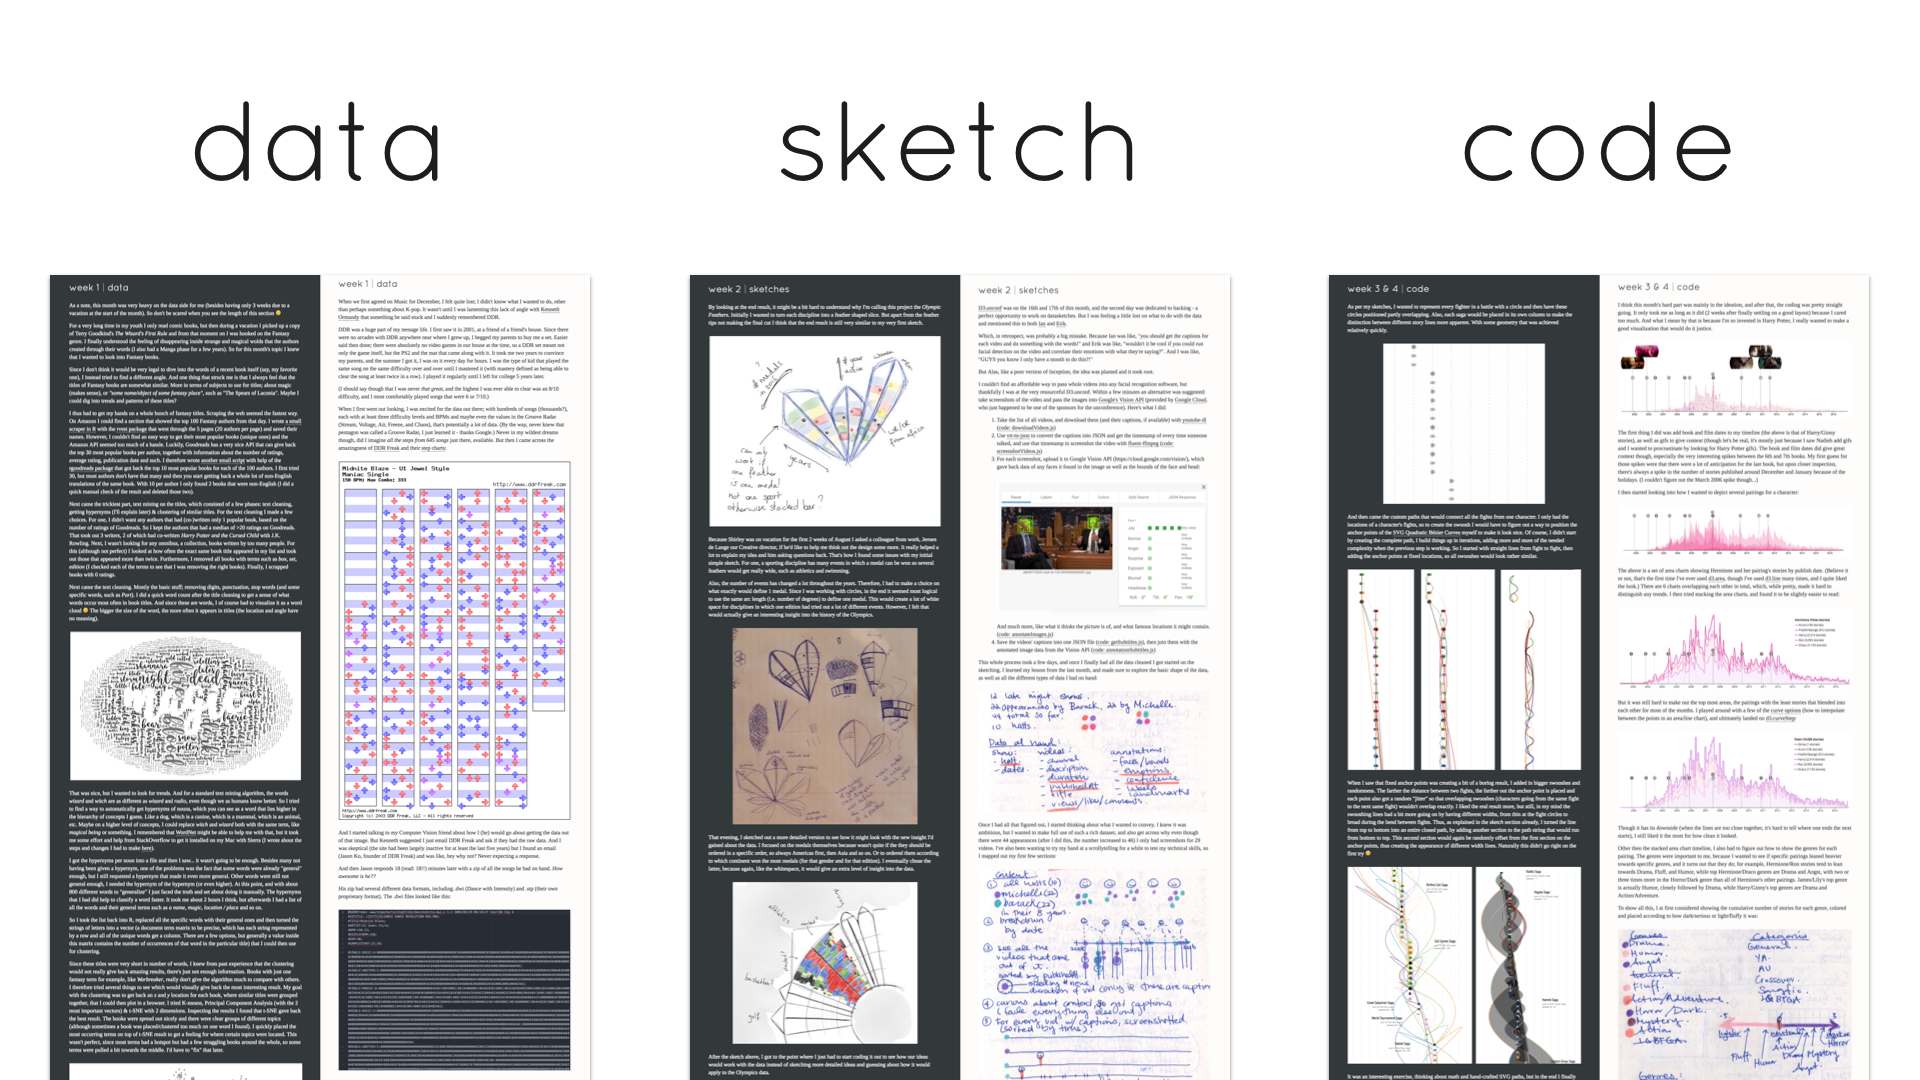
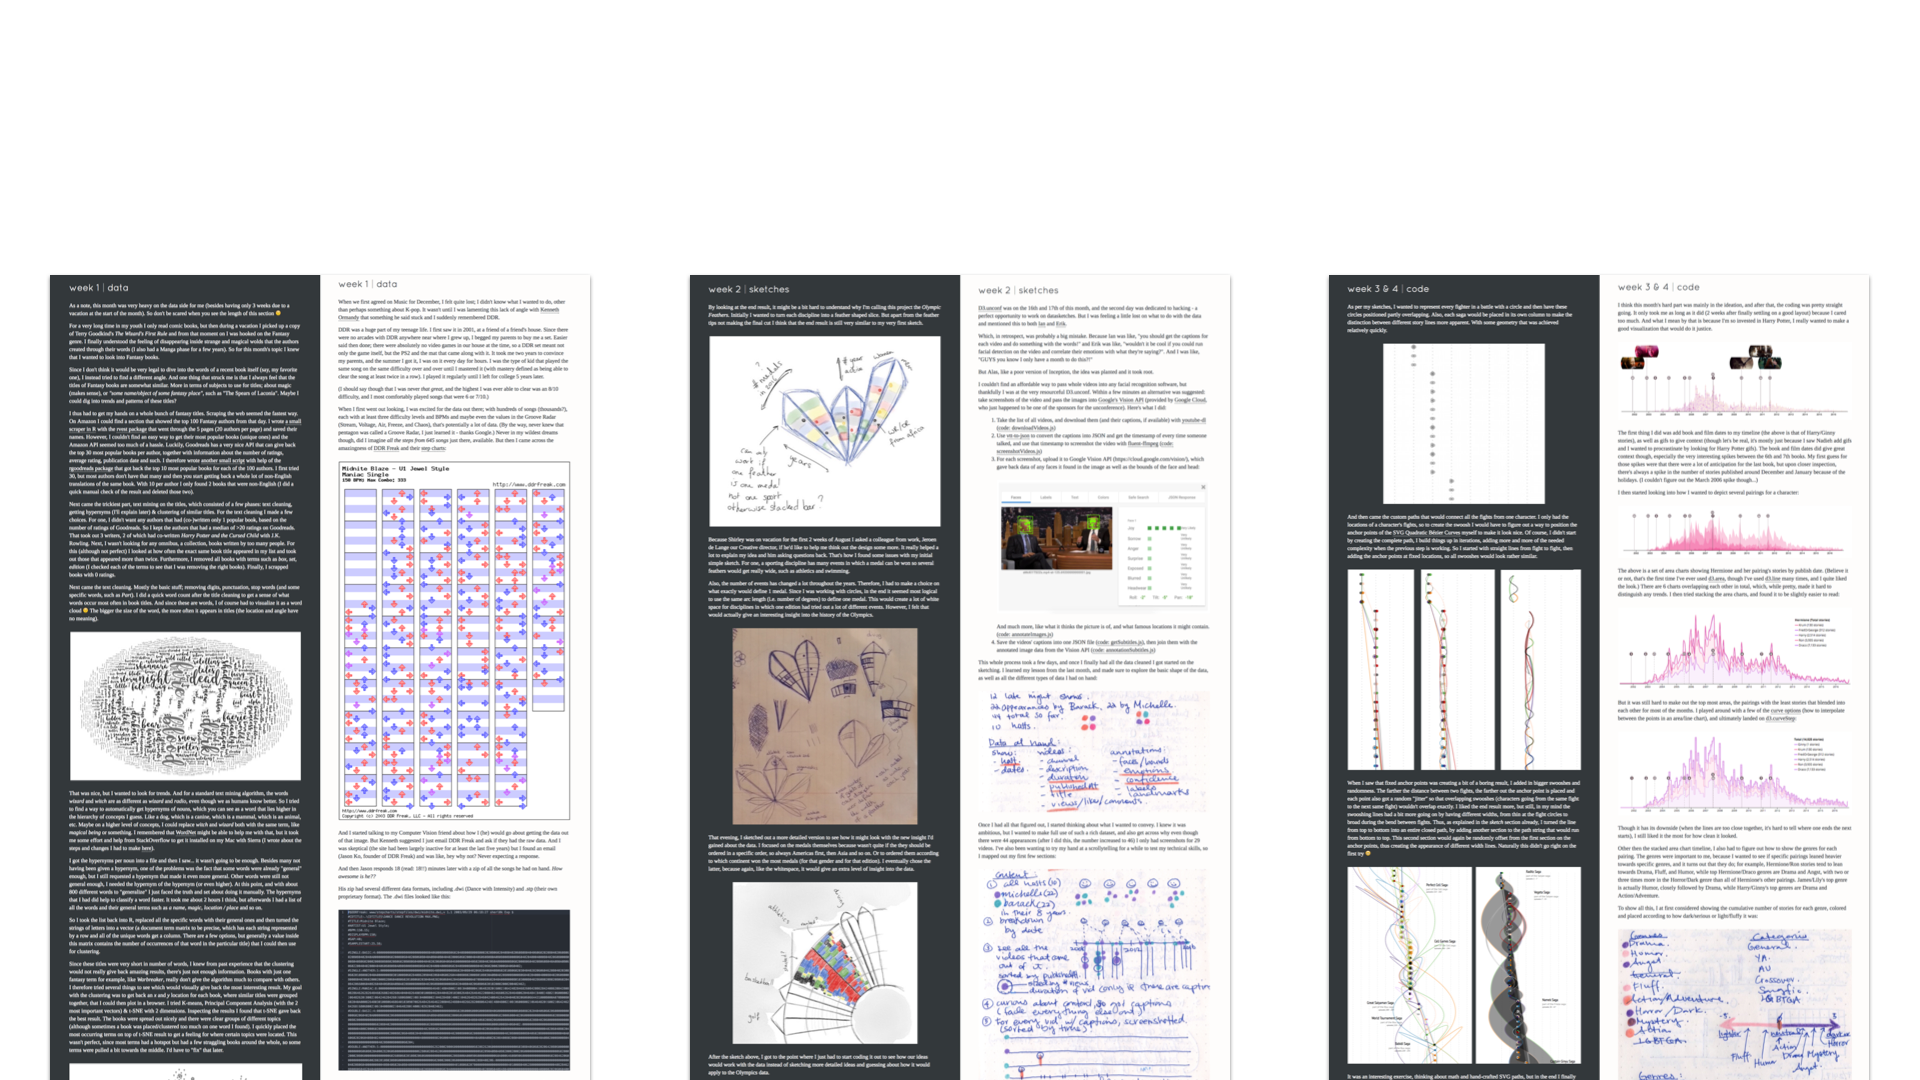
Turned some "image" words into actual HTML words

diff --git a/slides/slide_N_49/lessonsLearned.html b/slides/slide_N_49/lessonsLearned.html
@@ -2,17 +2,48 @@
 	#lessons-learned {
 		padding-top: 0px;
 	}
-	#lessons-learned .slide-images {
-		height: 1080px;
-		position: relative; 
-		margin: 0 auto;
+
+	#lessons-learned .slide-words {
+		width: 100%;
 	}
+
+	#lessons-learned .words-left {
+		float: left;
+		width: calc(50% - 20px);
+		padding-right: 20px;
+		text-align: right;
+		color: #282828;
+	}
+	
+	#lessons-learned .words-right {
+		float: left;
+		width: calc(50% - 20px);
+		padding-left: 20px;
+		text-align: left;
+		color: white;
+	}
+
+	#lessons-learned .title {
+		font-size: 115px;
+		font-weight: 400;
+		line-height: 180%;
+	}
+
 </style>
 
 <section id="lessons-learned" data-background="linear-gradient(135deg, rgba(245,194,177,1) 0%,rgba(244,209,198,1) 1%,rgba(229,172,192,1) 100%,rgba(224,163,144,1) 100%)"> <!--linear-gradient(135deg, rgba(245,194,177,1) 0%,rgba(245,194,177,1) 0%,rgba(224,163,144,1) 100%)">-->
 
-	<div class="slide-images">
-		<img class="center-fix" data-src="slides/slide_N_49/lessons_learned.png" />
+	<div class="slide-words">
+		<div class="words-left">
+			<div class="title quicksand">lessons</div>
+			<div class="title quicksand">challenges</div>
+			<div class="title quicksand">insights</div>
+		</div>
+		<div class="words-right">
+			<div class="title quicksand">learned</div>
+			<div class="title quicksand">faced</div>
+			<div class="title quicksand">gathered</div>
+		</div>
 	</div>
 
 </section>

diff --git a/slides/slide_N_47/dataSketchCode.html b/slides/slide_N_47/dataSketchCode.html
@@ -2,14 +2,36 @@
 	#data-sketch-code {
 		padding-top: 0px;
 	}
+
 	#data-sketch-code .slide-images {
 		height: 1080px;
 		position: relative; 
 		margin: 0 auto;
 	}
+
+	#data-sketch-code .slide-words {
+		position: absolute;
+		top: 6%;
+		width: 100%;
+		/*left: 50%;*/
+		/*transform: translateX(-50%);*/
+	}
+	#data-sketch-code .title {
+		float: left;
+		width: 33.3%;
+		font-size: 115px;
+		font-weight: 400;
+		color: #282828;
+	}
 </style>
 
 <section id="data-sketch-code">
+
+	<div class="slide-words">
+		<div class="title quicksand">data</div>
+		<div class="title quicksand">sketch</div>
+		<div class="title quicksand">code</div>
+	</div>
 
 	<div class="slide-images">
 		<img class="center-fix" data-src="slides/slide_N_47/data_sketch_code.png" />

diff --git a/slides/slide_N_48/datasketchesTitle.js b/slides/slide_N_48/datasketchesTitle.js
@@ -6,6 +6,9 @@ pt.datasketchesTitle.init = function() {
 	var counter = 0;
 	var dur = 1000;
 
+	d3.selectAll("#datasketches-title .loop-months img").style("opacity", 0);
+	d3.select("#datasketches-title #ds-" + ids[0]).style("opacity", 1);
+
 	pt.datasketchesTitle.loop = setInterval(loopMonths,dur*1.5);
 	loopMonths();
 
